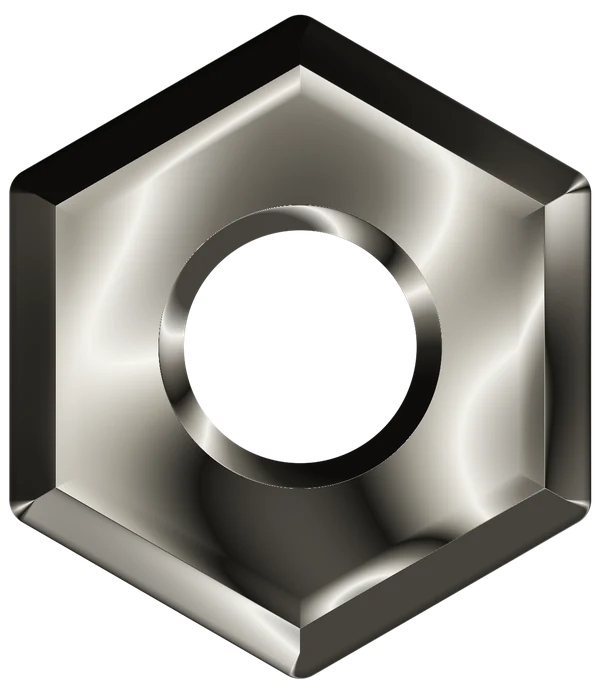
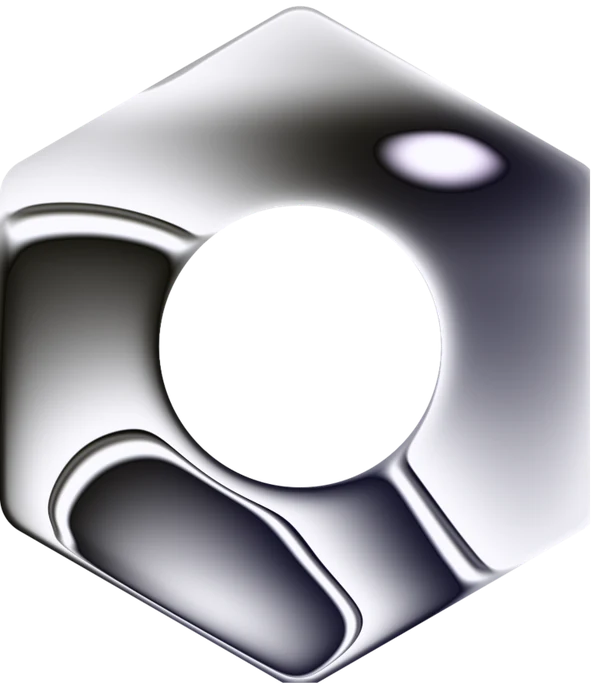
Porca estavel desde o 1o quadro: imagem parada = 1o quadro do proprio shader, pose de repouso no CSS, espessura com fade, sem fade da imagem na troca, posicao fixa no grid

diff --git a/css/style.css b/css/style.css
@@ -270,19 +270,25 @@ h1 em, h2 em { font-style: italic; color: var(--accent-ink); padding-right: 0.06
 .hero-nut-shader { position: absolute; inset: 0; opacity: 0; pointer-events: none; transition: opacity 400ms var(--ease-out); }
 .hero-nut-shader canvas { display: block; width: 100%; height: 100%; }
 .hero-nut.is-live .hero-nut-shader { opacity: 1; }
-.hero-nut.is-live img { opacity: 0; transition: opacity 400ms var(--ease-out); }
+/* A imagem parada e o 1o quadro do shader: fica por baixo, sem fade nem "buraco" na troca. */
 
 /* Interacao (js/porca.js, so mouse). Porca 3D: camadas de espessura (canvas
    pre-escurecidos) + brilho = gradiente que se move por transform dentro de
    uma mascara estatica no formato da porca. So transform muda por frame. */
 @media (hover: hover) and (pointer: fine) {
   .hero-nut-stage { position: absolute; inset: 0; transform-style: preserve-3d; will-change: transform; }
-  .hero-nut-layer { position: absolute; inset: 0; width: 100%; height: 100%; pointer-events: none; backface-visibility: hidden; }
+  .hero-nut-layer { position: absolute; inset: 0; width: 100%; height: 100%; pointer-events: none; backface-visibility: hidden;
+    opacity: 0; transition: opacity 400ms var(--ease-out); }
+  .hero-nut-stage.is-built .hero-nut-layer { opacity: 1; }
+  /* Antes do JS montar o palco, a imagem ja nasce na pose de repouso (sem salto plano -> inclinada). */
+  @media (prefers-reduced-motion: no-preference) {
+    .hero-nut:not(:has(.hero-nut-stage)) > img { transform: perspective(750px) rotateX(10deg) rotateY(-16deg); }
+  }
   .hero-nut-sheen {
     position: absolute; inset: 0; pointer-events: none; overflow: hidden; opacity: 0;
     transform: translateZ(1px);
-    -webkit-mask: url("../assets/marca/porca-mascara.svg") center / 100% 100% no-repeat;
-            mask: url("../assets/marca/porca-mascara.svg") center / 100% 100% no-repeat;
+    -webkit-mask: url("../assets/marca/porca-cromada.webp") center / 100% 100% no-repeat;
+            mask: url("../assets/marca/porca-cromada.webp") center / 100% 100% no-repeat;
     transition: opacity var(--dur-fast) var(--ease-out);
   }
   .hero-nut-sheen > span {
@@ -294,7 +300,7 @@ h1 em, h2 em { font-style: italic; color: var(--accent-ink); padding-right: 0.06
 @media (min-width: 1024px) {
   .hero .container:has(> .hero-nut) { display: grid; grid-template-columns: minmax(0, 1fr) 21rem; column-gap: var(--sp-8); }
   .hero .container:has(> .hero-nut) > * { grid-column: 1; }
-  .hero .container:has(> .hero-nut) > .hero-nut { grid-column: 2; grid-row: 1 / span 4; width: 100%; margin: 0; align-self: center; }
+  .hero .container:has(> .hero-nut) > .hero-nut { grid-column: 2; grid-row: 1 / span 4; width: 100%; margin: var(--sp-6) 0 0; align-self: start; } /* start: nao se mexe quando a fonte troca e o texto muda de altura */
   .hero .container:has(> .hero-nut) > .method { grid-column: 1 / -1; }
 }
 

diff --git a/js/porca-shader.js b/js/porca-shader.js
@@ -1,7 +1,7 @@
 /* F15: liquid metal na porca do hero (@paper-design/shaders, versao fixa).
    Carrega DEPOIS do conteudo (nao bloqueia render). O ShaderMount ja pausa fora
    da tela (IntersectionObserver) e com a aba oculta.
-   Sem canvas com prefers-reduced-motion ou sem WebGL2: fica a imagem parada do N4.
+   Sem canvas com prefers-reduced-motion ou sem WebGL2: fica a imagem parada (1o quadro do proprio shader).
    Mascara pre-processada offline (assets/marca/porca-liquid.png, R = gradiente da
    borda, G = opacidade) para nao rodar o solver no navegador do visitante. */
 (() => {
@@ -20,6 +20,10 @@
   // So os 4 modulos usados (o bundle +esm traz todos os shaders: ~900 ms de parse no celular).
   const LIB = "https://cdn.jsdelivr.net/npm/@paper-design/shaders@0.0.81/dist/";
   const MASK = "assets/marca/porca-liquid.png";
+  // Instante (ms) do shader em que foi renderizado o 1o quadro = assets/marca/porca-cromada.webp.
+  // Imagem parada e shader comecam IGUAIS: a troca nao muda forma, cor nem brilho.
+  // Se mudar os uniforms abaixo, renderize o webp de novo com este mesmo FRAME.
+  const FRAME = 3500;
 
   const start = async () => {
     try {
@@ -51,7 +55,7 @@
       (face ? face.parentNode : el).insertBefore(host, face ? face.nextSibling : null);
 
       new ShaderMount(host, liquidMetalFragmentShader, uniforms, { alpha: true, premultipliedAlpha: true },
-                      0.3, 0, 2);
+                      0.3, FRAME, 2);
       // 2 quadros para o 1o desenho; so entao troca a imagem parada pelo canvas
       requestAnimationFrame(() => requestAnimationFrame(() => el.classList.add("is-live")));
     } catch { /* sem rede/GL: a imagem parada continua */ }

diff --git a/js/porca.js b/js/porca.js
@@ -40,11 +40,13 @@
       g.drawImage(face, 0, 0, w, h);
       g.globalCompositeOperation = "source-atop";       // escurece so onde ha metal
       // da face (clara) ate o fundo (#0E0D0B): a lateral esmaece em vez de formar uma faixa cinza na borda
-      g.fillStyle = `rgba(14,13,11,${(0.35 + 0.65 * Math.pow(i / LAYERS, 0.6)).toFixed(2)})`;
+      g.fillStyle = `rgba(14,13,11,${(0.75 + 0.25 * Math.pow(i / LAYERS, 0.5)).toFixed(2)})`;
       g.fillRect(0, 0, w, h);
       c.style.transform = `translateZ(${-i * STEP}px)`;
       stage.insertBefore(c, face);
     }
+    // espessura entra com fade (CSS) em vez de "pular" para o lugar
+    requestAnimationFrame(() => stage.classList.add("is-built"));
   };
   (face.decode ? face.decode() : Promise.resolve()).then(build).catch(() => {});
 
